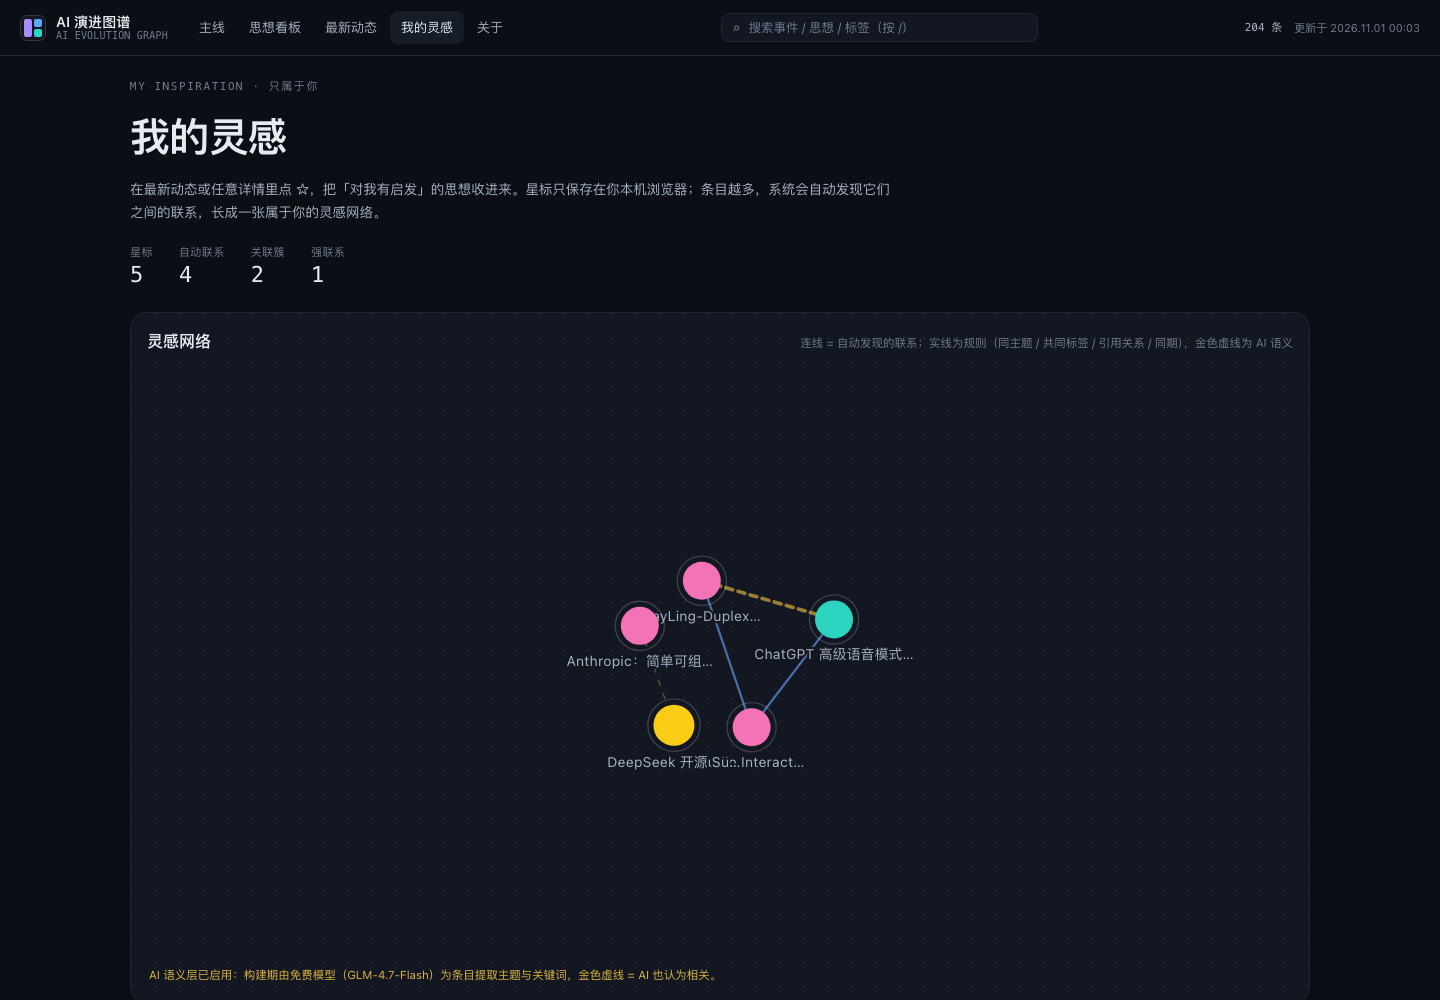
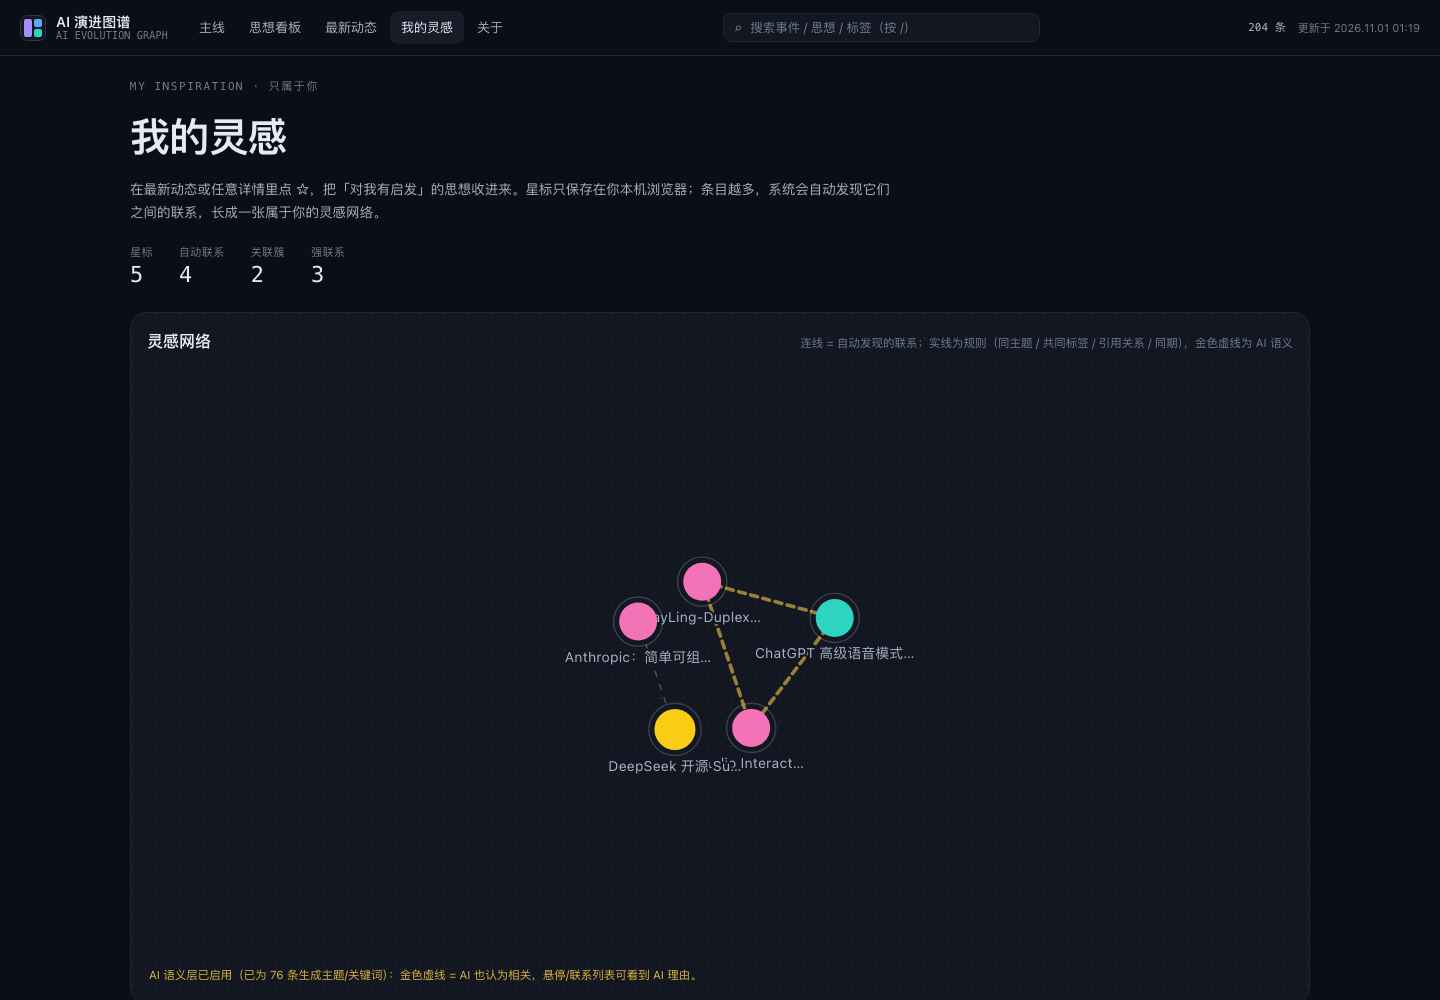
docs: 更新线上 AI 截图与覆盖说明（76 条种子，示例 4 条 AI 金线）

diff --git a/docs/STATUS.md b/docs/STATUS.md
@@ -22,7 +22,7 @@
 - 主线（默认页）：27/32 里程碑，5 章，突破点高亮；章节页=全事件列表+时间轴+影响图谱
 - 思想看板 v6：每个主题一张思维导图（11 张；根→子方向→思想，35 分支/90 节点），默认导图视图、可切回看板；叶子=年份/类型/影响力/两行标题，hover 摘要、点击详情；支持缩放/长分支横滚；移动端降级分支列表；不再有角色/活跃度/雷达徽标，视觉强调只由重要性决定
 - 最新动态 v4：单一「最近入库」流（不再拆事件/思想），窗口=近 5 天入库 + 事件近 180 天；按时间倒序；每条标类型与影响力分数；创新雷达仅中性小标签
-- **我的灵感**（`#/stars`）：任意条目点 ☆ 加星（localStorage 本地保存，不上传）；自动联系分规则层（引用/同主题/共同标签 IDF/同期，强/中/弱分级）与 **AI 语义层（已启用）**：仓库内种子 `src/data/ai-links.json`（76 条规范主题）+ CI 用免费 GLM-4.7-Flash 增量补全并缓存；AI 连线金色虚线带 AI 理由，密钥只在 GitHub Actions Secrets
+- **我的灵感**（`#/stars`）：任意条目点 ☆ 加星（localStorage 本地保存，不上传）；自动联系分规则层（引用/同主题/共同标签 IDF/同期，强/中/弱分级）与 **AI 语义层（已启用，76 条种子覆盖）**：`src/data/ai-links.json` 种子（规范主题，已覆盖全部近期动态）+ CI 用免费 GLM-4.7-Flash 增量补全并缓存；AI 连线金色虚线带 AI 理由；免费额度受限时保留种子，不受影响
 - 搜索：加权、高亮、类别/年份/影响力筛选、URL 状态、`/` 快捷键
 - 每日更新：会话内 08:30 定时（新闻+创新信号 → 校验/构建 → `curate:apply` 主线晋升淘汰）
 - 数据：204 条（193 条 2012+ / 11 条奠基），41 insight，25 needs_review，来源覆盖 98%；11 个思想主题共 90 步；10-31 补 5 条日报 + 7 条量子位动态 + GLM-4.7-Flash 条目；关键条目已加第二来源互证（Gemini 官方博客、Kimi 实测）
